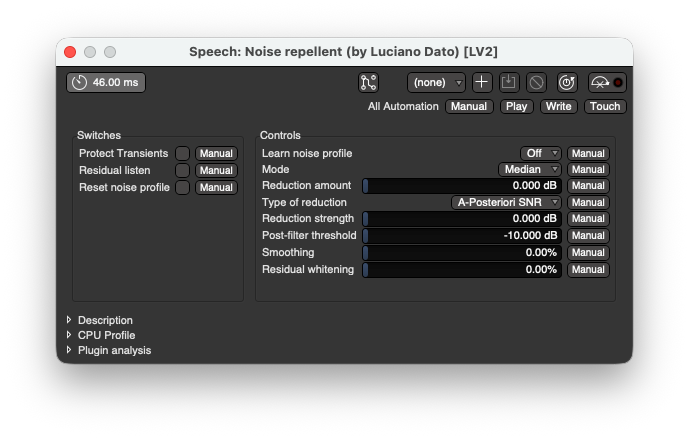
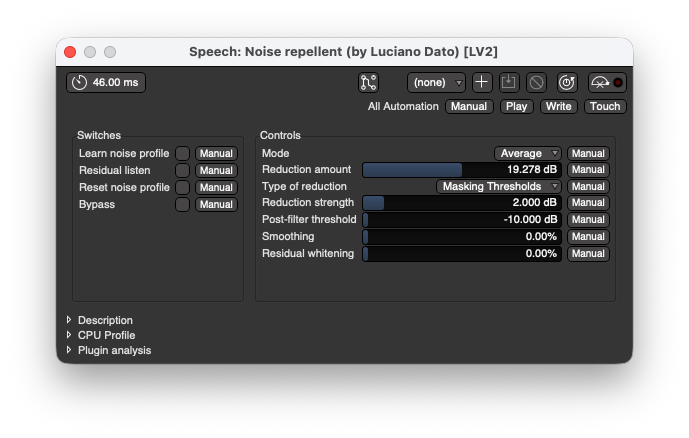
Update screenshots

diff --git a/README.md b/README.md
@@ -17,7 +17,8 @@ A suite of LV2 plugins for real-time spectral noise reduction, built on the [lib
 
 ![Noise Repellent in Ardour](images/Noise-repellent-Ardour.png)
 ![Noise Repellent in Reaper](images/Noise-repellent-Reaper.png)
-![Adaptive Noise Repellent in Reaper](images/Adaptive-Reaper.png)
+![Adaptive Noise Repellent in Ardour](images/Noise-repellent-adaptive-Ardour.png)
+![Adaptive Noise Repellent in Reaper](images/Noise-repellent-adaptive-Reaper.png)
 
 ## Installation
 
